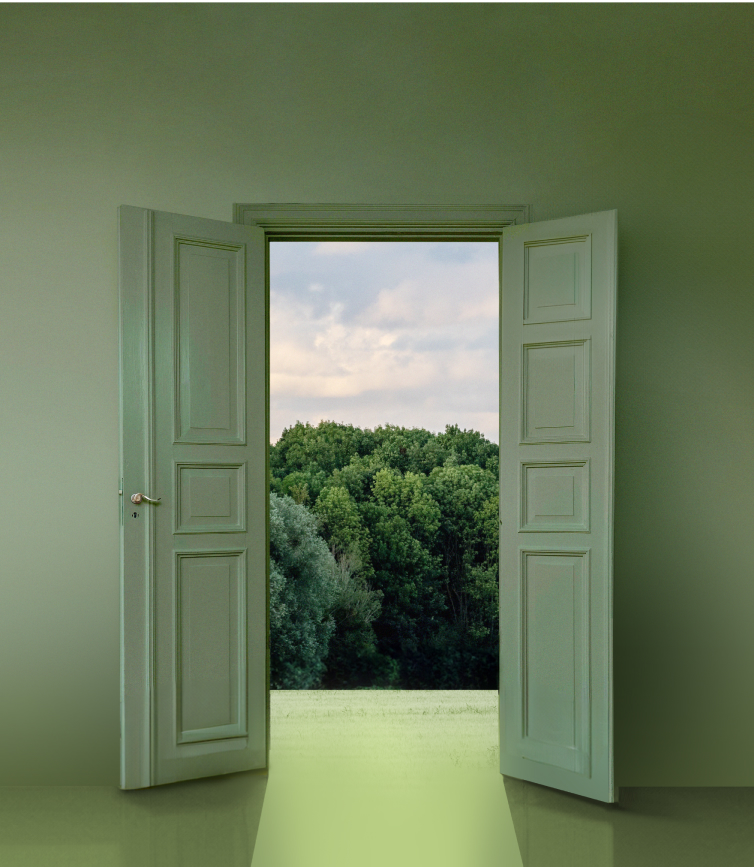
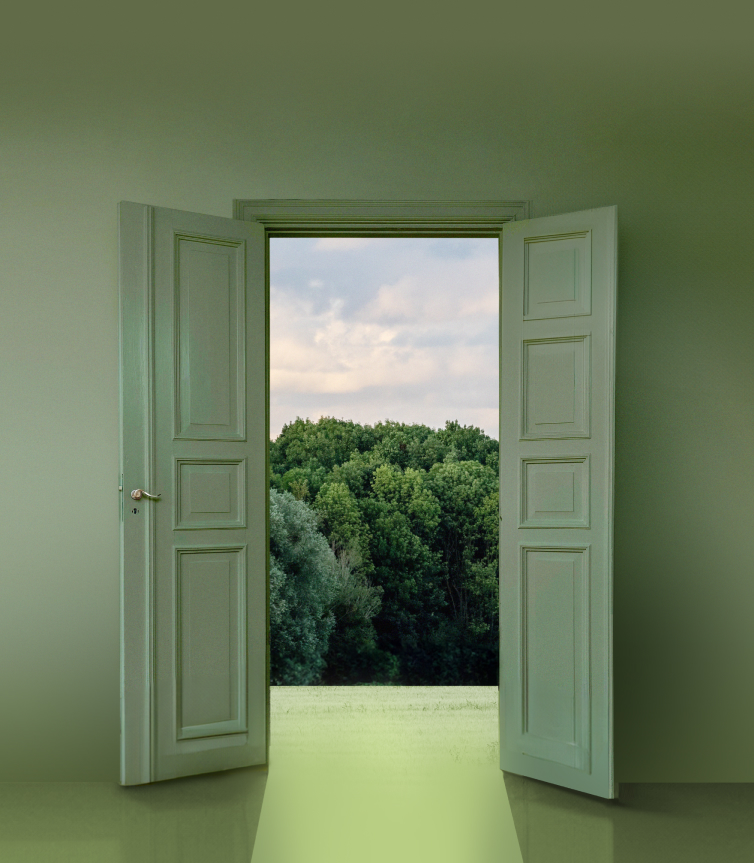
10-09-24-22

diff --git a/assets/css/style.css b/assets/css/style.css
@@ -283,6 +283,7 @@ background-position: center;
 color: var(--white);
 overflow: hidden;
 }
+
 .hero picture{
   position: absolute;
   top: 0;
@@ -376,6 +377,9 @@ background: linear-gradient(90deg, rgba(97,107,72,1) 0%, rgba(97,107,72,0.034051
   margin-bottom: 20px;
 }
 @media (max-width:878px) {
+  .header{
+    position: relative;
+  }
   .hero{
     padding: 80px 0 30px  ;
   }
@@ -414,10 +418,46 @@ background: linear-gradient(90deg, rgba(97,107,72,1) 0%, rgba(97,107,72,0.034051
     padding: 20px 0;
   }
 }
+@media (max-width:422px){
+  .hero__cat{
+    font-size: 14px;
+  }
+  .hero__counts--wrapper{
+    margin: 30px 0;
+  }
+}
+@media (orientation: portrait) {
+  .container{
+    padding: 0 20px;
+  }
+  .hero{
+    padding-top: 60px;
+    padding-bottom: 100%;
+  }
+  .hero picture source {
+    display: block;
+    width: 100%;
+    height: auto;
+    object-fit: contain;
+  }
+  .hero picture{
+    top: auto;
+    bottom: 0;
+    height: auto;
+  }
+  .hero__info, .hero__wrapper .hero__subtitle{
+    width: 100%;
+  }
+  .hero__author{
+    text-align: right;
+    width: 80%;
+    margin-left: auto;
+  }
+}
 /* =================== QUOTE ================ */
 .quote{
   text-align: center;
-  padding: 70px 0;
+  padding: clamp(3.13rem, calc(2.58rem + 2.34vw), 4.38rem) 0;
   background-color: var(--light-grey);
 }
 .quote .signature{
@@ -427,7 +467,7 @@ background: linear-gradient(90deg, rgba(97,107,72,1) 0%, rgba(97,107,72,0.034051
 /* ================ INFO ====================== */
 .info{
   background-color: #BCCC8A;
-  padding: 70px 0;
+  padding: clamp(3.13rem, calc(2.58rem + 2.34vw), 4.38rem) 0;
 }
 .info__wrapper{
   display: flex;
@@ -474,6 +514,18 @@ background: linear-gradient(90deg, rgba(97,107,72,1) 0%, rgba(97,107,72,0.034051
   top: 12px;
   background-color: var(--black);
 }
+@media (max-width:756px) {
+  .info__wrapper{
+    flex-direction: column;
+  }
+  .info__item{
+    width: 100%;
+    margin-bottom: 40px;
+  }
+  .info__item:first-child{
+    width: 100%;
+  }
+}
 /* ================= VIDEO ===================== */
 
 .video {
@@ -506,11 +558,16 @@ background: linear-gradient(90deg, rgba(97,107,72,1) 0%, rgba(97,107,72,0.034051
   text-align: center;
   margin-bottom: 52px;
 }
+@media (max-width:756px){
+  .video video{
+    border-radius: 6px;
+  }
+}
 
 /* =================== FORMAT ====================== */
 .format{
   background-color: #B1C28A;
-  padding: 100px 0 90px;
+  padding: clamp(3.13rem, calc(1.75rem + 5.85vw), 6.25rem) 0 clamp(3.13rem, calc(2.03rem + 4.68vw), 5.63rem);
 }
 .format__wrapper {
   display: flex;
@@ -571,7 +628,27 @@ background: linear-gradient(90deg, rgba(97,107,72,1) 0%, rgba(97,107,72,0.034051
   background-color: var(--white);
   width: 76%;
 }
-
+@media (max-width:1059px) {
+  .format__day{
+    flex-direction: column;
+  }  
+  .format__day--num{
+    width: 100%;
+    padding: 15px 20px;
+  }
+  .format__day--text{
+    width: 100%;
+    padding: 15px 20px;
+  }
+}
+@media (max-width:728px){
+  .format__wrapper{
+    flex-direction: column;
+  }
+  .format__info, .format__days{
+    width: 100%;
+  }
+}
 /* =================== ABOUT-US =================== */
 .about-us{
   background-color: #ACC7BA;

diff --git a/index.html b/index.html
@@ -223,7 +223,7 @@
                     <div class="signature">Поль Жеральди</div>
                 </div>
             </div>
-            <div class="about-us">
+            <!-- <div class="about-us">
                 <div class="container">
                     <div class="about-us__wrapper">
                         <div class="about-us__info">
@@ -257,8 +257,8 @@
                         <div class="about-us__link--text">О других продуктах — там же</div>
                     </div>
                 </div>
-            </div>
-            <div class="want">
+            </div> -->
+            <!-- <div class="want">
                 <div class="container">
                     <div class="want__wrapper">
                         <div class="want__title block-title">Хотите?</div>
@@ -281,7 +281,7 @@
                         </div>
                     </div>
                 </div>
-            </div>
+            </div> -->
             <div class="cases">
                 <div class="container">
                     <div class="cases__title block-title">
@@ -350,7 +350,7 @@
             </div>
     </div>
     </main>
-    <footer class="footer">
+    <!-- <footer class="footer">
         <div class="container">
             <a href="/"><img src="assets/img/footer-logo.svg" alt="logo"></a>
             <div class="footer__wrapper">
@@ -369,7 +369,7 @@
                 <a href="#">Privacy policy</a>
             </div>
         </div>
-    </footer>
+    </footer> -->
     </div>
     <script src="https://cdn.jsdelivr.net/npm/swiper@11/swiper-bundle.min.js"></script>
 </body>
